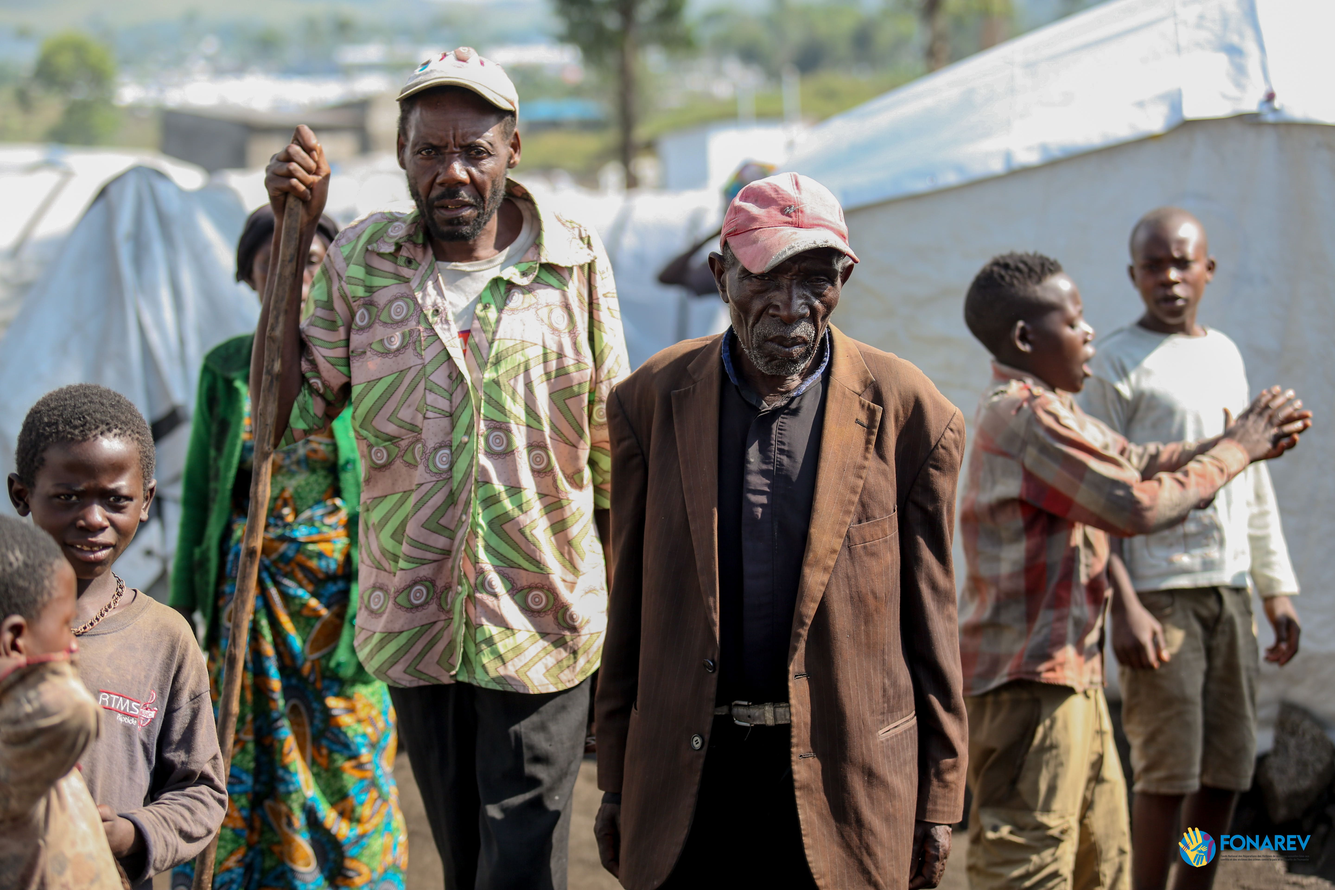
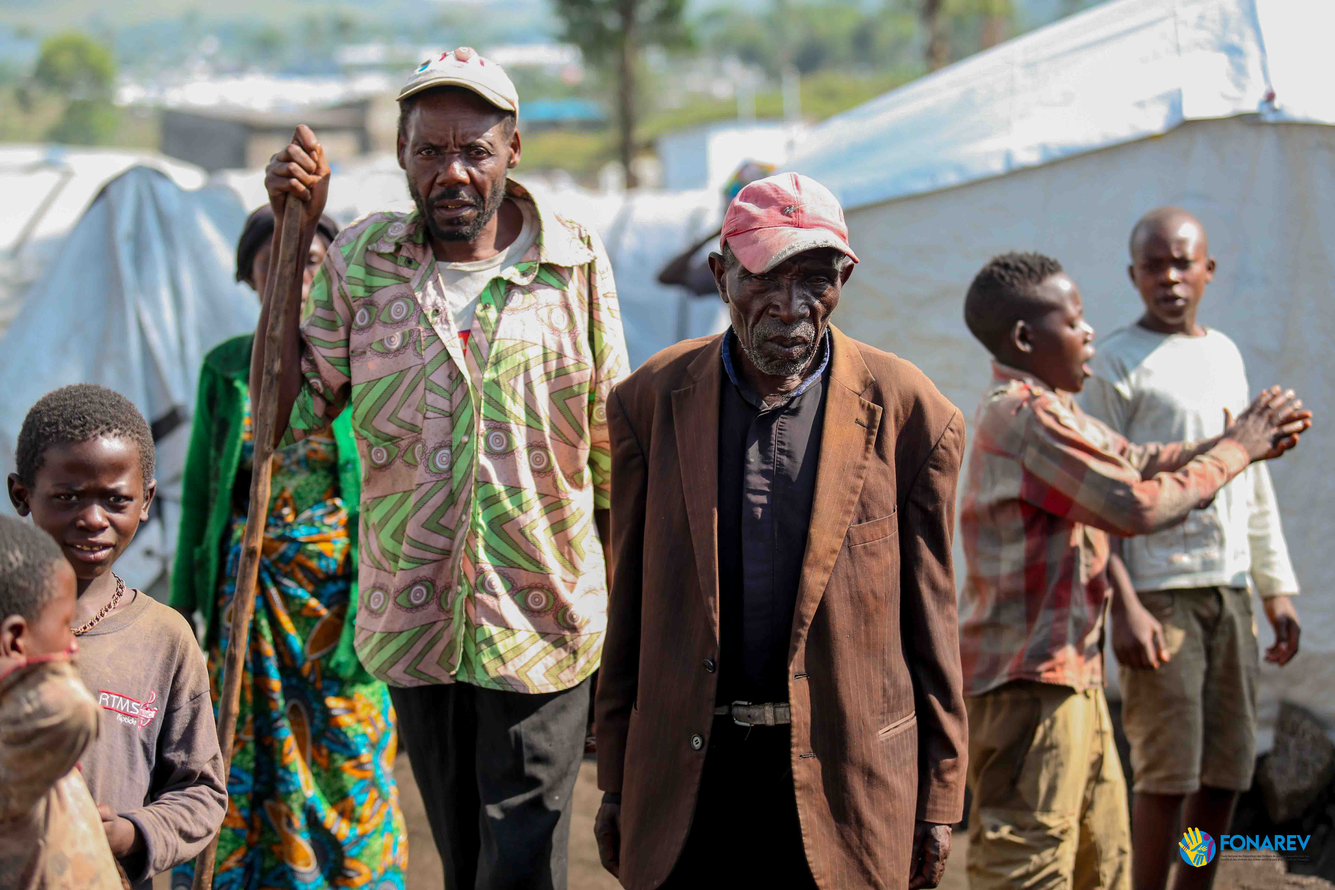
fix image compress

diff --git a/src/app/a-propos-du-fonarev/page.js b/src/app/a-propos-du-fonarev/page.js
@@ -49,9 +49,9 @@ const About = () => {
         <section className={styles.story} id="story">
             <div className={styles.txtSide}>
                 <h2>Notre Vision</h2>
-                <ul>
+                {/* <ul>
                     <li>
-                        Assurer la vision humaniste du chef de l’Etat pour la prise en charge des victimes Les victimes au centre de toutes les actions et préoccupations
+                            Œuvrer pour le relèvement des victimes et la non répétition des violences pour bâtir une paix durable.
                     </li>
                     <li>
                         Bonne gouvernance : Transparence et Intégrité financière
@@ -63,7 +63,10 @@ const About = () => {
                         Devenir une structure de référence en Afrique et dans le monde en matière des réparations des victimes
                     </li>
 
-                </ul>
+                </ul> */}
+                <p>
+                    Œuvrer pour le relèvement des victimes et la non répétition des violences pour bâtir une paix durable.
+                </p>
           
             </div>
             <div className={styles.imageContaine2}>
@@ -74,53 +77,74 @@ const About = () => {
         <section className = {styles.mision} id="mission">
             <h2>Les missions du Fonarev</h2>
             <div className = {styles.cardWrapper}>
-          
-                <ValeurCard text = "Allouer des réparations aux victimes" icone = "material-symbols:home-repair-service-outline-rounded"/>
-                <ValeurCard text = "Aider les victimes à avoir accès à la justice" icone = "healthicons:justice-outline"/>
                 <ValeurCard text = "Identifier les victimes" icone = "solar:user-id-broken"/>
-                <ValeurCard text = "Aider les victimes à être indemnisées et à recouvrer les dommages intérêts leur alloués" icone = "solar:hand-money-outline"/>
-                <ValeurCard text = "Aider les victimes à bénéficier gratuitement d'un accompagnement et d'une assistance judiciaire appropriés" icone = "healthicons:justice-outline"/> 
+                <ValeurCard text = "Aider les victimes à avoir accès à la justice" icone = "healthicons:justice-outline"/>
+                <ValeurCard text = "Allouer des réparations aux victimes" icone = "solar:hand-money-outline"/>
             </div>
         </section>
 
-        {/* <section className={styles.valeurs} id="valeur">
+        <section className={styles.valeurs} id="valeur">
             <div className={styles.textSide}>
                 <h2>Les valeurs <span>du Fonarev</span></h2>
                 <div className={styles.valeursFlexer}> 
                     <div>
                         <h4>
-                            Valeur 1
+                            Responsabilité 
                         </h4>
                         <p>
-                            loremlorem lorem lorem loremloremlorem 
-                            lorem lorem lorem lorem lorem lorem lorem
+                        Le FONAREV s’assume entièrement dans
+                        son intervention
                         </p>
                     </div>
                     <div>
                         <h4>
-                            Valeur 2
+                            Équité 
                         </h4>
                         <p>
-                            loremlorem lorem lorem loremloremlorem 
-                            lorem lorem lorem lorem lorem lorem lorem
+                        Le FONAREV s’assure que toutes les
+                        victimes aient, de manière juste, un accès à
+                        ses services et aux réparations
                         </p>
                     </div>
                     <div>
                         <h4>
-                            Valeur 3
+                            Bienveillance 
                         </h4>
                         <p>
-                            loremlorem lorem lorem loremloremlorem 
-                            lorem lorem lorem lorem lorem lorem lorem
+                        Le FONAREV prône une approche
+                        empathique envers les victimes pour les
+                        aider à se reconstruire.
                         </p>
                     </div>
                     <div>
                         <h4>
-                            Valeur 4
+                        Impartialité 
                         </h4>
                         <p>
-                            loremlorem lorem lorem loremloremlorem 
-                            lorem lorem lorem lorem lorem lorem lorem
+                        Le FONAREV alloue les réparations en
+                        toute neutralité, sans parti pris, ni influence
+                        extérieure inappropriée.
+                        </p>
+                    </div>
+                    <div>
+                        <h4>
+                        Confidentialité  
+                        </h4>
+                        <p>
+                        Le FONAREV s’engage à protéger et à ne
+                        pas divulguer les informations et les
+                        données personnelles des victimes et
+                        d’autres partenaires
+                        </p>
+                    </div>
+                    <div>
+                        <h4>
+                            Non discrimination  
+                        </h4>
+                        <p>
+                        Le FONAREV s’engage à respecter les
+                        opinions et convictions des victimes et
+                        d’autres partenaires, sans stigmatisation
                         </p>
                     </div>
                 </div>
@@ -128,7 +152,7 @@ const About = () => {
             <div className={styles.rightSide}>
 
             </div>
-        </section> */}
+        </section> 
 
         <section className={styles.team} id="team">
             <h2>Notre équipe dirigeante</h2>

diff --git a/src/app/home.module.scss b/src/app/home.module.scss
@@ -108,7 +108,7 @@
             background-position: center center;
         }
         .victimPicture3{
-            background: linear-gradient(90deg, rgba(0, 0, 0, 0.311) 0%, rgba(38, 38, 38, 0.459) 100%), url('./../../public/caroussel-item-1.jpeg');
+            background: linear-gradient(90deg, rgba(0, 0, 0, 0.311) 0%, rgba(38, 38, 38, 0.459) 100%), url('./../../public/caroussel-item-1.jpg');
             background-size: cover;
             background-position: center center;
         }

diff --git a/src/app/a-propos-du-fonarev/style.module.scss b/src/app/a-propos-du-fonarev/style.module.scss
@@ -45,7 +45,7 @@
         height: 450px;
     }
     .txtSide{
-        width: 49%;
+        width: 50%;
         height: 500px;
         p, ul li {
             text-align: justify;
@@ -147,7 +147,7 @@
                 }
             }
             div{
-                width: 48%;
+                width: 46%;
             }
         }
         

diff --git a/src/components/valeur.module.scss b/src/components/valeur.module.scss
@@ -28,6 +28,7 @@
         color: white;
         padding: 1rem 2rem;
         font-weight: 400 !important;
+        font-size: 1.2rem;
     }
 
 
